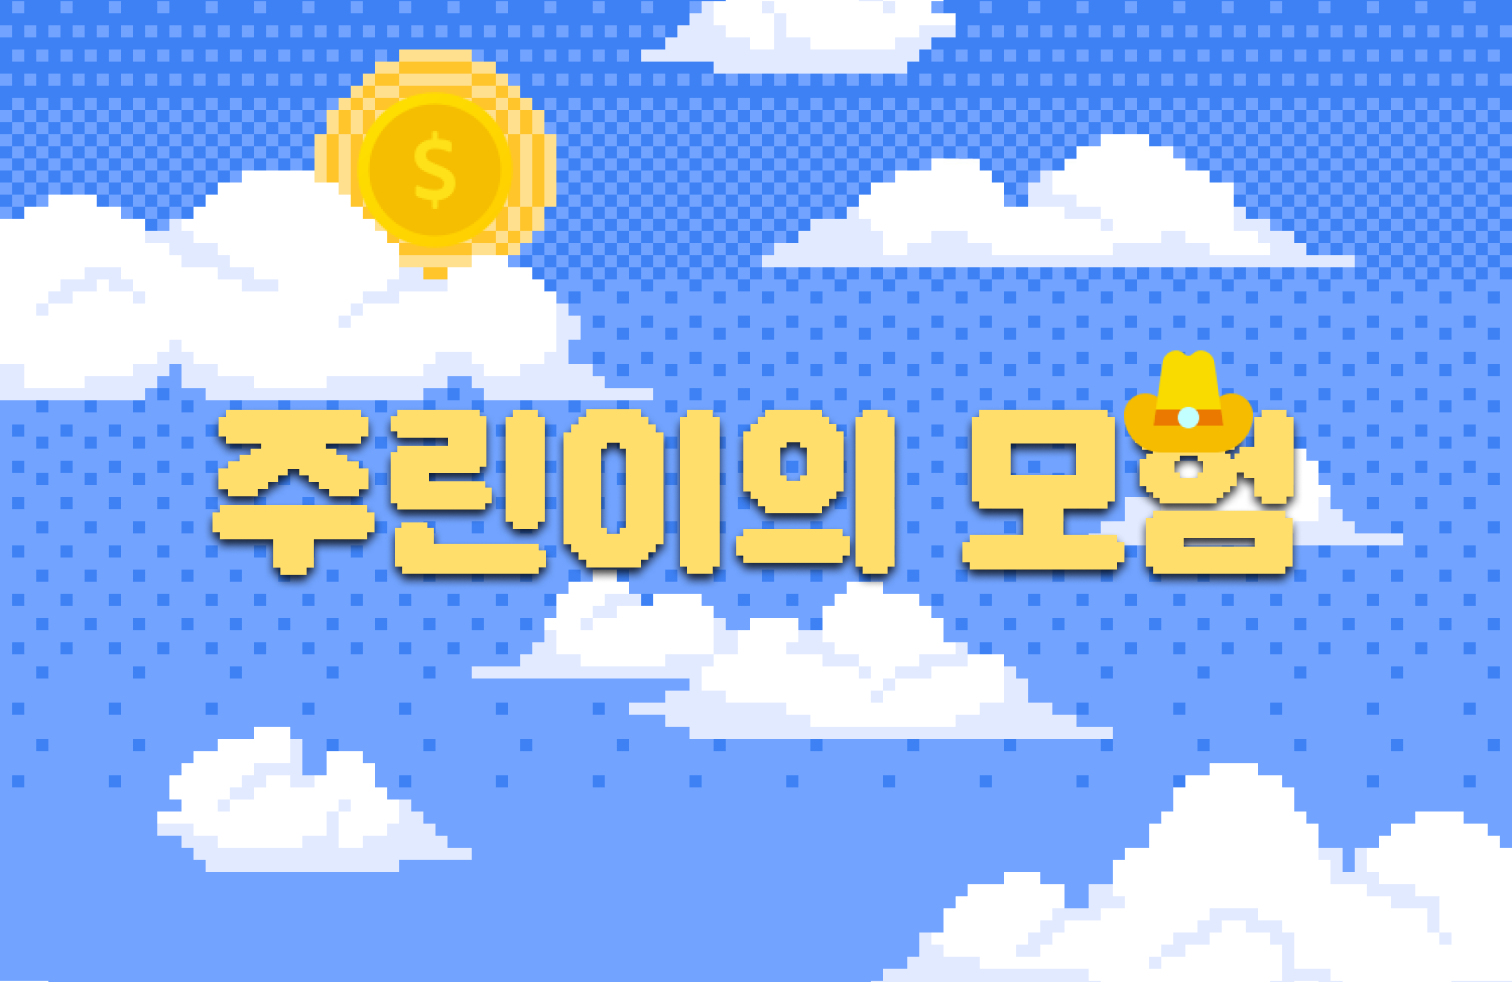
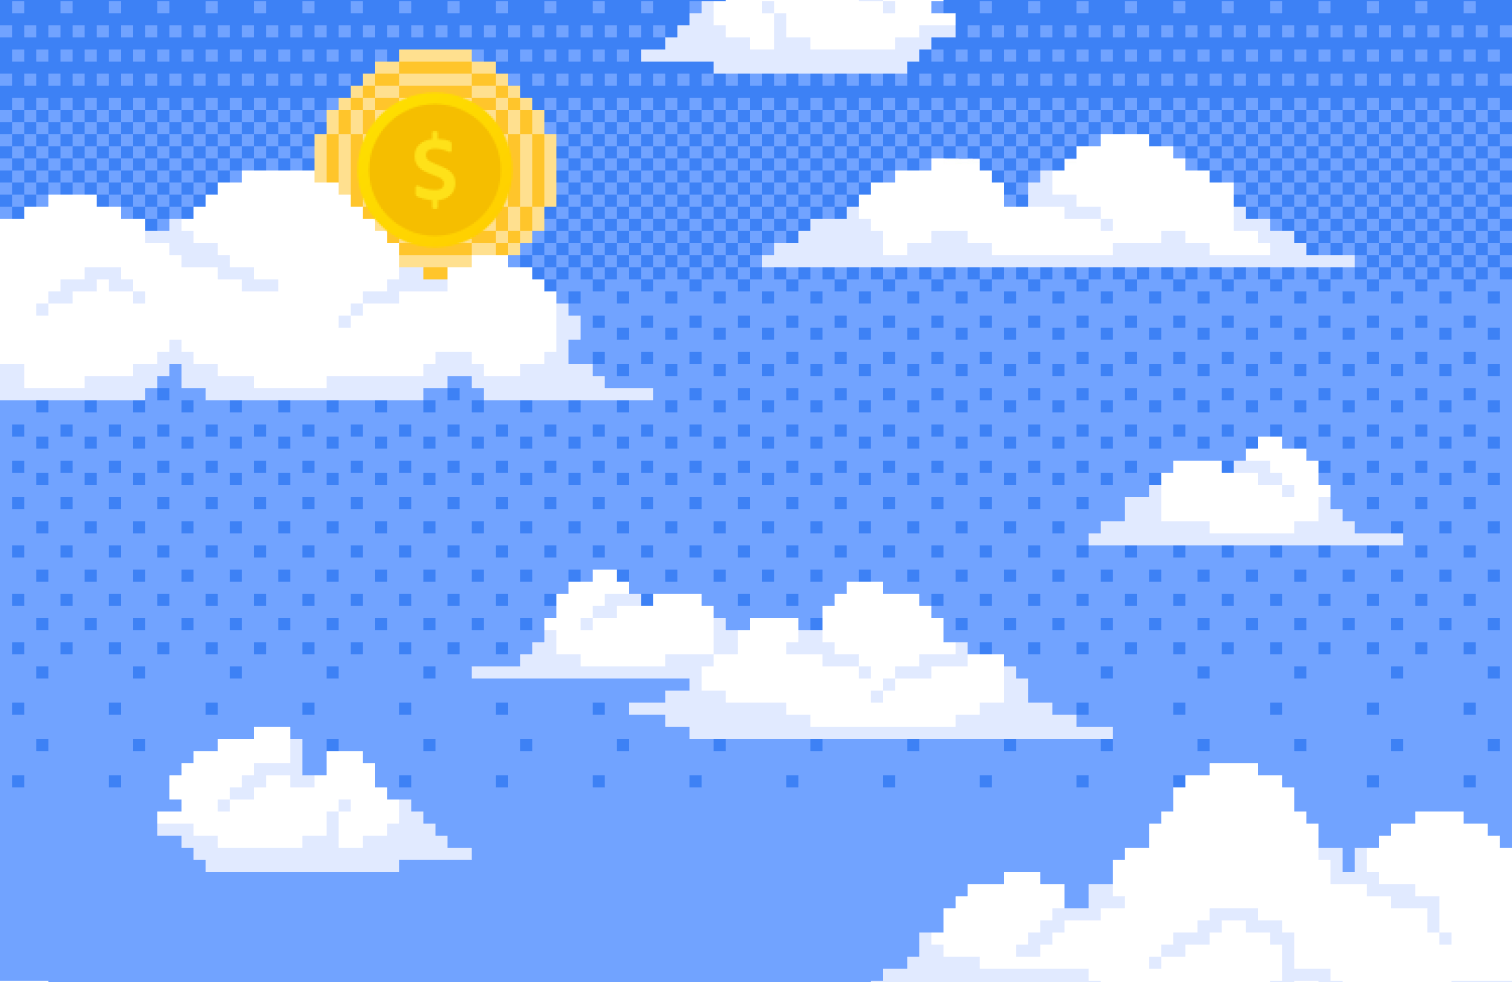
Style: 화면 맞추기

Changed region(s): [[0.1243, 0.336, 0.8704, 0.611]]

diff --git a/src/styles/stock.css b/src/styles/stock.css
@@ -1,12 +1,12 @@
 .background-style{
     width: 100vw;
     height: 100vh;
-    background-image: url('../assets/backgrounds/Stock.png');
     background-size: contain;
     overflow: hidden;
     background-repeat: no-repeat;
     background-position: center;
     position: relative;
+    
 }
 
 .input-style {
@@ -16,9 +16,9 @@
     padding-left: 15px;
     background-image: url('../assets/stock/searchbar.png');
     background-size: cover;
-    position:absolute;
-    left: 180px;
-    top:100px;
+    /* position:absolute;
+    left: 13vw;
+    top:100px; */
     font-size: 30px;
     font-family:'DNFBitBitv2';
 }
@@ -30,7 +30,27 @@
     font-size: 24px;
     position: absolute;
     top: 100px;
-    right: 200px;
+    right: 550px;
+}
+
+.world{
+    padding: 1% 2%; 
+    background: #D9D9D9;
+    border-radius: 30px;
+    font-size: 24px;
+    position: absolute;
+    top: 100px;
+    right: 380px;
+}
+
+.my{
+    padding: 1% 2%; 
+    background: #D9D9D9;
+    border-radius: 30px;
+    font-size: 24px;
+    position: absolute;
+    top: 100px;
+    right: 220px;
 }
 
 

diff --git a/src/pages/main/layout.jsx b/src/pages/main/layout.jsx
@@ -1,9 +1,28 @@
 import React from 'react';
 import startPage from '../../assets/backgrounds/startPage.png'
+import hat from '../../assets/backgrounds/hat.png'
 export default function MainLayout() {
 
 return (
-<div style={{backgroundImage: `url(${startPage})`,backgroundSize: 'contain',
+  <div class ='background-style'>
+  <img src={startPage} style={{ width: "100%", height: "100%" }} />
+  <div
+    style={{
+      position: "absolute",
+      top: "50%",
+      left:"50%",
+      transform: "translate(-50%,-50%)"
+    }}
+  >
+    <img src={hat} style={{width:"900px"}}></img>
+  </div>
+</div>
+
+
+);
+}
+
+{/* <div style={{backgroundImage: `url(${startPage})`,backgroundSize: 'contain',
   width: '100vw',
   height: '100vh',
   overflow:"hidden",
@@ -12,8 +31,4 @@ return (
   alignItems:"center",
   backgroundRepeat: 'no-repeat',
   backgroundPosition:'center'}}>
-</div>
-
-
-);
-}
+</div> */}

diff --git a/src/pages/rank/layout.jsx b/src/pages/rank/layout.jsx
@@ -2,13 +2,18 @@ import React from 'react';
 import Rank from '../../assets/backgrounds/rank.png'
 export default function RankLayout() {
 
-return (
-<div style={{backgroundImage: `url(${Rank})`, backgroundSize: 'contain',
-  width: '100vw',
-  height: '100vh',
-  backgroundRepeat: 'no-repeat',
-  backgroundPosition:'center'}}>
-</div>
+  return (
+    <div class ='background-style'>
+          <img src={Rank} style={{ width: "100%", height: "100%" }} />
+          <div
+            style={{
+              position: "absolute",
+              top: 100,
+              left: 100,
+            }}
+          >
 
-);
-}
+          </div>
+        </div>
+    );
+    }

diff --git a/src/pages/Stock/stock.jsx b/src/pages/Stock/stock.jsx
@@ -1,12 +1,20 @@
 import React from 'react';
 import '../../styles/stock.css'
+import Background from '../../assets/backgrounds/Stock.png'
 export default function StockLayout() {
 
 return (
-<div class='background-style'>
-    <input class='input-style' type='text'></input>
-    <div class='korea'>국내주식</div>
-</div>
-
+<div class ='background-style'>
+      <img src={Background} style={{ width: "100%", height: "100%" }} />
+      <div
+        style={{
+          position: "absolute",
+          top: 100,
+          left: 100,
+        }}
+      >
+        <input class="input-style" type="text" />
+      </div>
+    </div>
 );
 }
